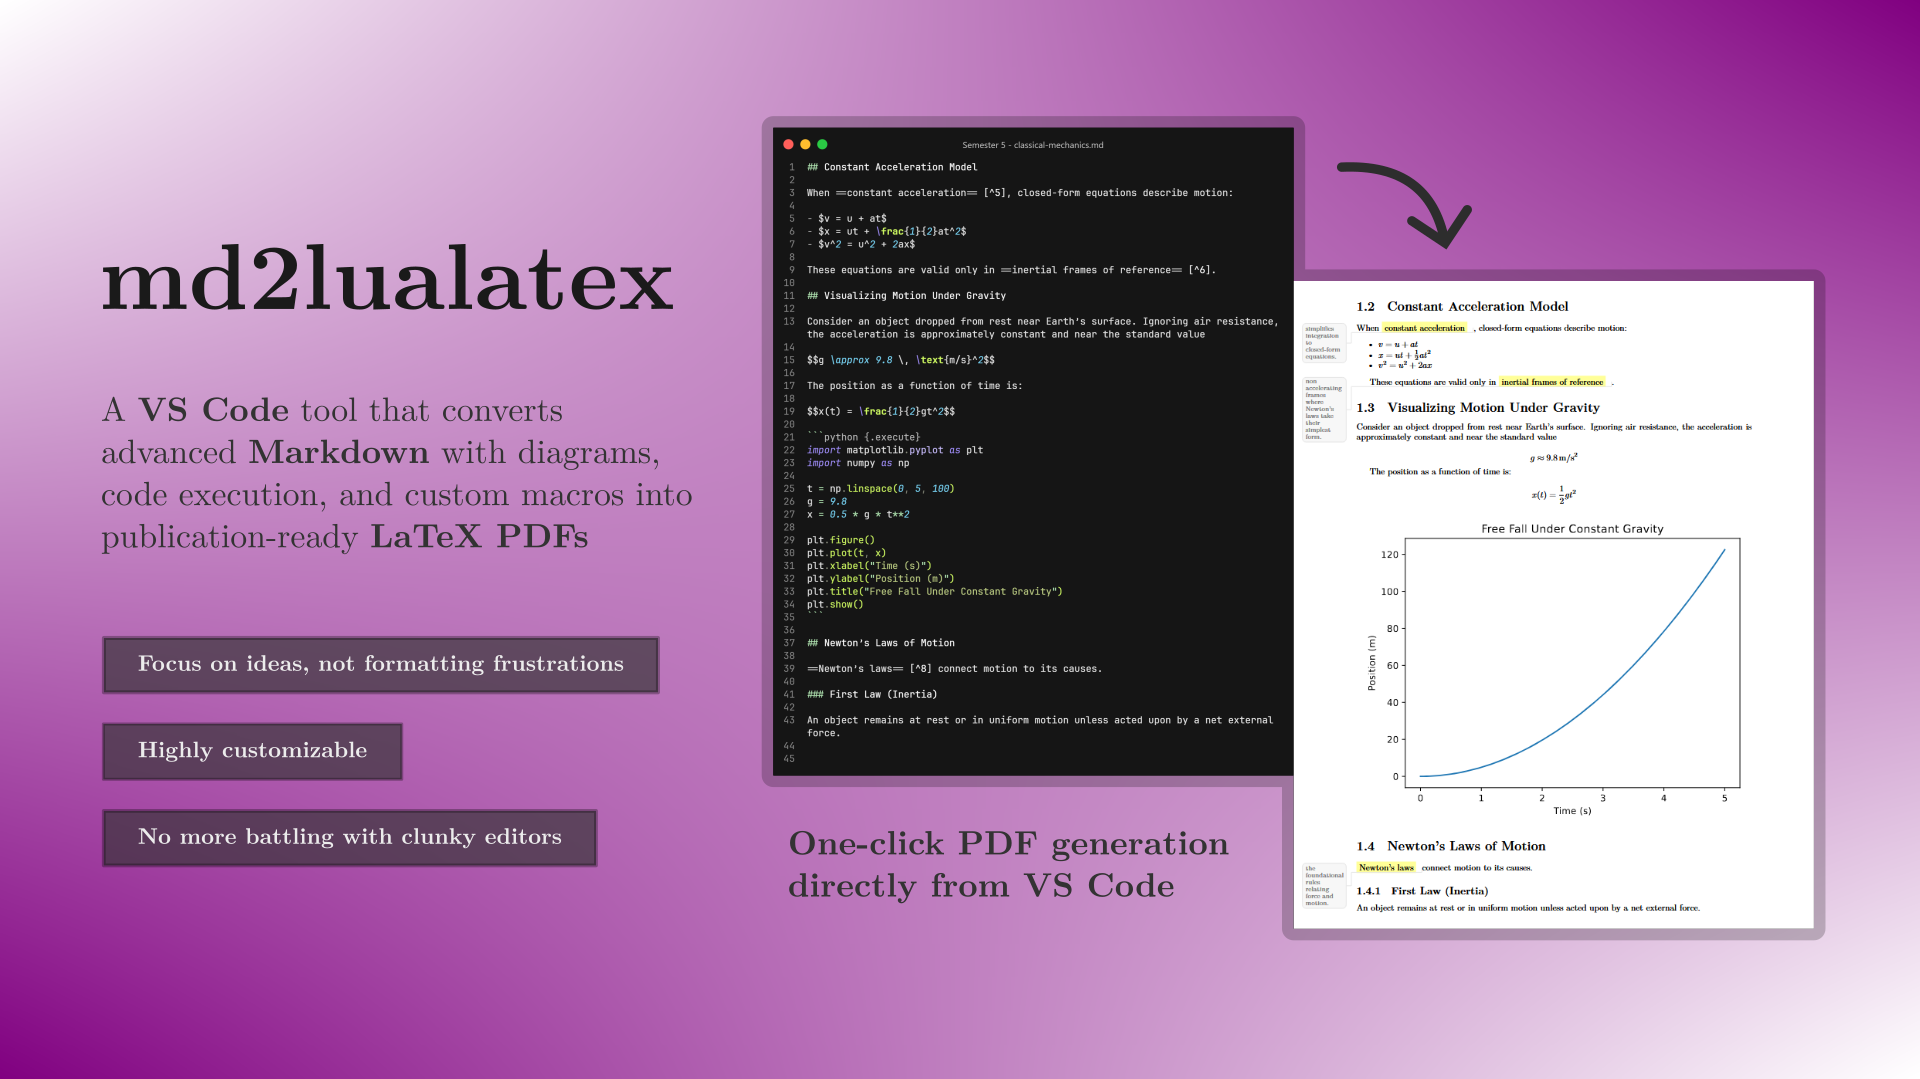
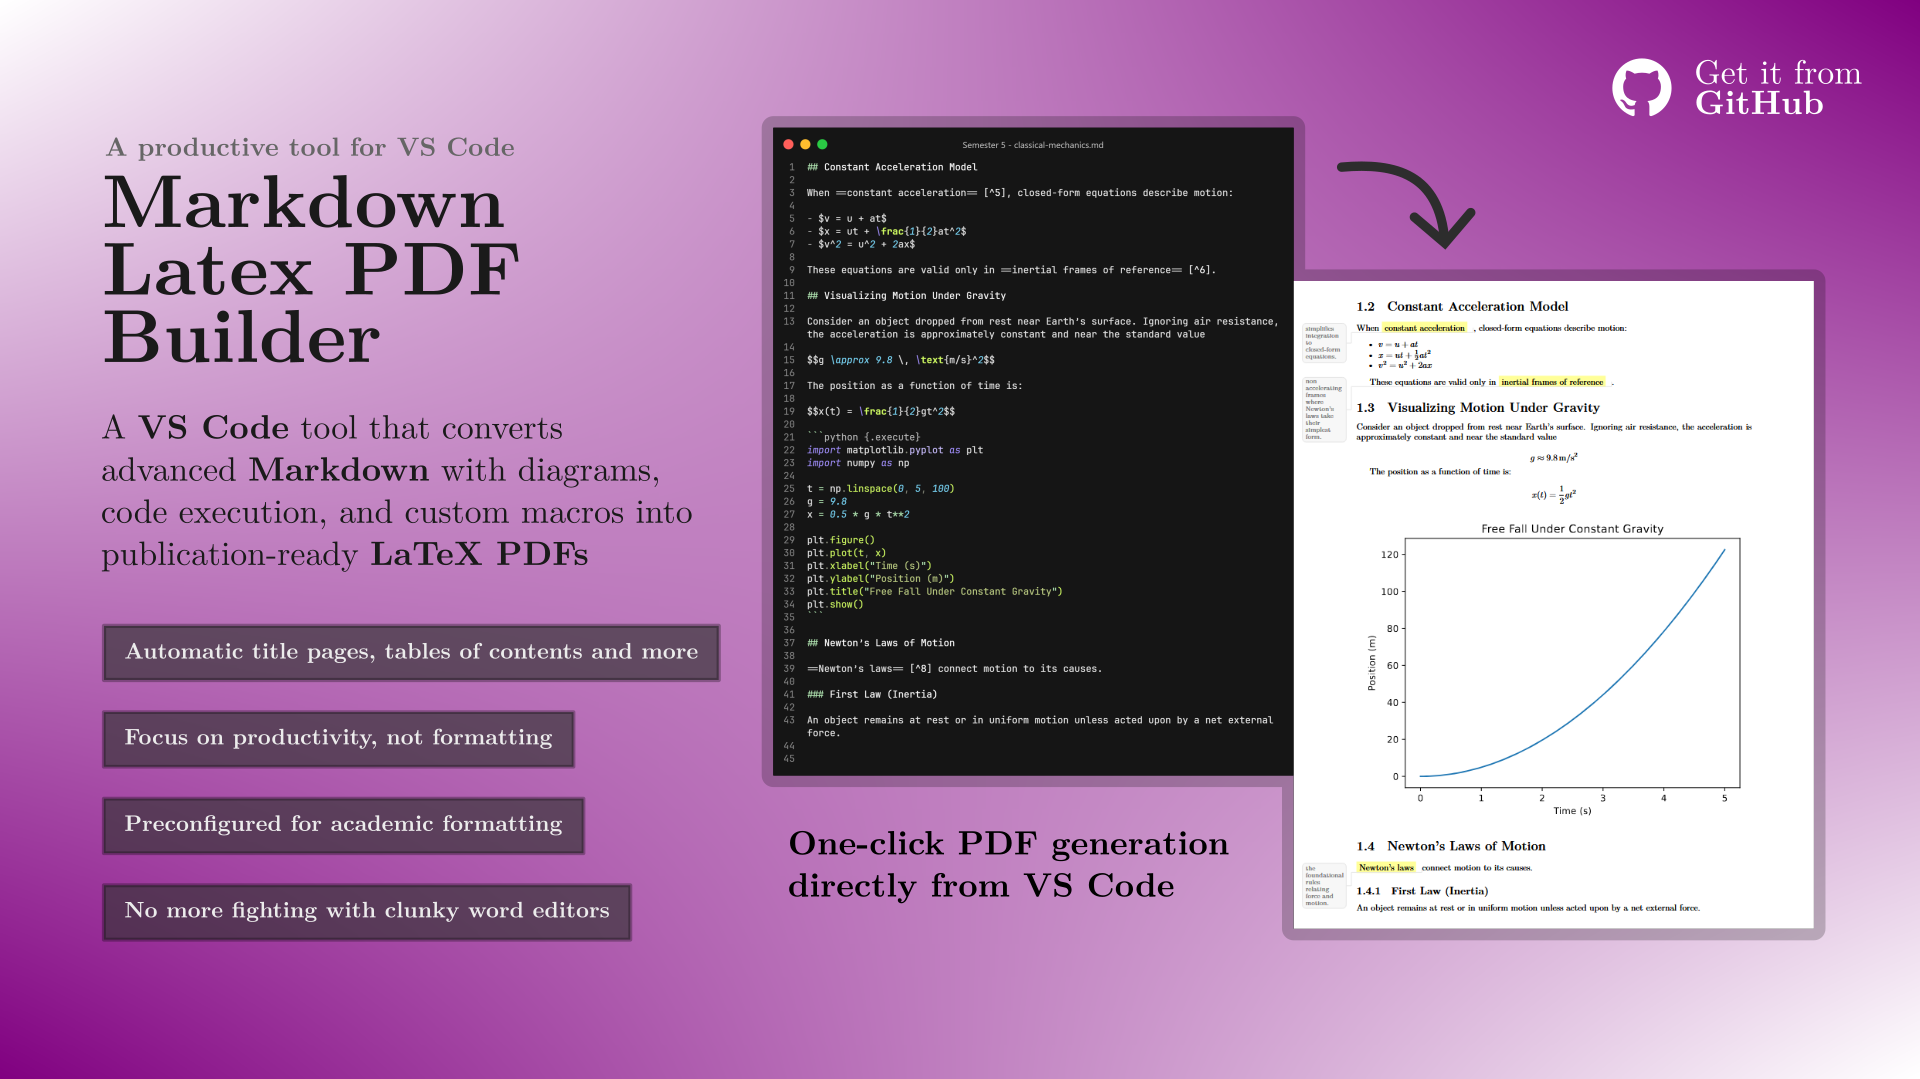
feat: Update README files to reflect new project name and enhance clarity

diff --git a/README.md b/README.md
@@ -1,8 +1,9 @@
 Windows | [Linux](README-LINUX.md)
 
-# md2lualatex
+# markdown-latex-pdf-builder
 
 ![alt text](screenshots/screenshot_1.png)
+
 <!-- ![alt text](screenshots/screenshot_2.png) -->
 
 A vscode tool that converts advanced Markdown with diagrams, code execution, and custom macros into publication-ready LaTeX PDFs.
@@ -13,7 +14,7 @@ A vscode tool that converts advanced Markdown with diagrams, code execution, and
 - [Usage](#usage)
 - [Changing Default Values](#changing-default-values)
 - [Changing the University Logo](#changing-the-university-logo)
-- [Updating md2lualatex](#updating-md2lualatex)
+- [Updating markdown-latex-pdf-builder](#updating-markdown-latex-pdf-builder)
 - [Uninstallation](#uninstallation)
 - [Tested Environments](#tested-environments)
 
@@ -110,15 +111,15 @@ Install the Pygments syntax highlighter for code blocks:
 python -m pip install Pygments
 ```
 
-#### Step 4: Download md2lualatex
+#### Step 4: Download markdown-latex-pdf-builder
 
-Download md2lualatex to your user AppData folder:
+Download markdown-latex-pdf-builder to your user AppData folder:
 
 ```powershell
-wget https://github.com/abdxdev/md2lualatex/archive/refs/heads/main.zip -OutFile "$env:TEMP\main.zip"
-Expand-Archive -Force -Path "$env:TEMP\main.zip" -DestinationPath "$env:APPDATA\md2lualatex"
+wget https://github.com/abdxdev/markdown-latex-pdf-builder/archive/refs/heads/main.zip -OutFile "$env:TEMP\main.zip"
+Expand-Archive -Force -Path "$env:TEMP\main.zip" -DestinationPath "$env:APPDATA\markdown-latex-pdf-builder"
 Remove-Item "$env:TEMP\main.zip"
-Copy-Item "$env:APPDATA\md2lualatex\md2lualatex-main\default.json" "$env:APPDATA\md2lualatex\default.json"
+Copy-Item "$env:APPDATA\markdown-latex-pdf-builder\markdown-latex-pdf-builder-main\default.json" "$env:APPDATA\markdown-latex-pdf-builder\default.json"
 
 ```
 
@@ -140,10 +141,10 @@ python -m pip install numpy matplotlib
 
 #### Step 7: Verify installation
 
-Run this command to test md2lualatex with the comprehensive guide example. If everything is set up correctly, a PDF document should be generated and opened automatically.
+Run this command to test markdown-latex-pdf-builder with the comprehensive guide example. If everything is set up correctly, a PDF document should be generated and opened automatically.
 
 ```powershell
-python "$env:APPDATA\md2lualatex\md2lualatex-main\script.py" "$env:APPDATA\md2lualatex\md2lualatex-main\test\COMPREHENSIVE-GUIDE.md" --show
+python "$env:APPDATA\markdown-latex-pdf-builder\markdown-latex-pdf-builder-main\script.py" "$env:APPDATA\markdown-latex-pdf-builder\markdown-latex-pdf-builder-main\test\COMPREHENSIVE-GUIDE.md" --show
 ```
 
 ## VS Code Setup
@@ -155,10 +156,10 @@ python "$env:APPDATA\md2lualatex\md2lualatex-main\script.py" "$env:APPDATA\md2lu
    ```jsonc
    // ...other settings...,
     "command-runner.commands": {
-        "md2lualatex: Build Document (follow json settings)": "python \"$env:APPDATA\\md2lualatex\\md2lualatex-main\\script.py\" \"${file}\"",
-        "md2lualatex: Build Assignment (add university title page)": "python \"$env:APPDATA\\md2lualatex\\md2lualatex-main\\script.py\" \"${file}\" --titleTemplate 1 --enableContentPage false",
-        "md2lualatex: Build Notes (add title)": "python \"$env:APPDATA\\md2lualatex\\md2lualatex-main\\script.py\" \"${file}\" --titleTemplate 2 --enableContentPage false",
-        "md2lualatex: Build Publication (add contents and title page)": "python \"$env:APPDATA\\md2lualatex\\md2lualatex-main\\script.py\" \"${file}\" --titleTemplate 3 --enableContentPage true"
+        "markdown-latex-pdf-builder: Build Document (follow json settings)": "python \"$env:APPDATA\\markdown-latex-pdf-builder\\markdown-latex-pdf-builder-main\\script.py\" \"${file}\"",
+        "markdown-latex-pdf-builder: Build Assignment (add university title page)": "python \"$env:APPDATA\\markdown-latex-pdf-builder\\markdown-latex-pdf-builder-main\\script.py\" \"${file}\" --titleTemplate 1 --enableContentPage false",
+        "markdown-latex-pdf-builder: Build Notes (add title)": "python \"$env:APPDATA\\markdown-latex-pdf-builder\\markdown-latex-pdf-builder-main\\script.py\" \"${file}\" --titleTemplate 2 --enableContentPage false",
+        "markdown-latex-pdf-builder: Build Publication (add contents and title page)": "python \"$env:APPDATA\\markdown-latex-pdf-builder\\markdown-latex-pdf-builder-main\\script.py\" \"${file}\" --titleTemplate 3 --enableContentPage true"
     }
    ```
 
@@ -168,8 +169,8 @@ python "$env:APPDATA\md2lualatex\md2lualatex-main\script.py" "$env:APPDATA\md2lu
 
 1. Open any folder in VS Code.
 2. Create a new Markdown file (for example, `report.md`).
-3. Add your content. Check out our [comprehensive guide](https://github.com/abdxdev/md2lualatex/blob/main/test/COMPREHENSIVE-GUIDE.pdf) for advanced features and examples.
-4. Press `Ctrl + Shift + R` and select **md2lualatex: Build Document**. (Extension: Command Runner must be installed. Follow prerequisites if you haven't done so.)
+3. Add your content. Check out our [comprehensive guide](https://github.com/abdxdev/markdown-latex-pdf-builder/blob/main/test/COMPREHENSIVE-GUIDE.pdf) for advanced features and examples.
+4. Press `Ctrl + Shift + R` and select **markdown-latex-pdf-builder: Build Document**. (Extension: Command Runner must be installed. Follow prerequisites if you haven't done so.)
 5. After a few moments, the PDF will be generated along with a `.json` metadata file. Edit this file to change document settings like title, university, and date. (To permanently change default values, see the next section.)
 6. Re-run the build command from step 4 to generate the updated PDF.
 
@@ -183,7 +184,7 @@ You can edit the default settings for document generation by modifying the `defa
 Run this command to open it in VS Code:
 
 ```powershell
-code "$env:APPDATA\md2lualatex\default.json"
+code "$env:APPDATA\markdown-latex-pdf-builder\default.json"
 ```
 
 The next time you generate a document, it will use the updated defaults.
@@ -193,21 +194,21 @@ The next time you generate a document, it will use the updated defaults.
 To replace the default logo, open the script directory:
 
 ```powershell
-explorer $env:APPDATA\md2lualatex\md2lualatex-main\
+explorer $env:APPDATA\markdown-latex-pdf-builder\markdown-latex-pdf-builder-main\
 ```
 
 Replace the existing `uni-logo.pdf` file with your logo file (use the same name).
 
-## Updating md2lualatex
+## Updating markdown-latex-pdf-builder
 
-To update md2lualatex, run these commands in PowerShell:
+To update markdown-latex-pdf-builder, run these commands in PowerShell:
 
 #### Step 1: Remove old version and download the latest
 
 ```powershell
-Remove-Item "$env:APPDATA\md2lualatex\md2lualatex-main" -Recurse -Force
-wget https://github.com/abdxdev/md2lualatex/archive/refs/heads/main.zip -OutFile "$env:TEMP\main.zip"
-Expand-Archive -Path "$env:TEMP\main.zip" -DestinationPath "$env:APPDATA\md2lualatex"
+Remove-Item "$env:APPDATA\markdown-latex-pdf-builder\markdown-latex-pdf-builder-main" -Recurse -Force
+wget https://github.com/abdxdev/markdown-latex-pdf-builder/archive/refs/heads/main.zip -OutFile "$env:TEMP\main.zip"
+Expand-Archive -Path "$env:TEMP\main.zip" -DestinationPath "$env:APPDATA\markdown-latex-pdf-builder"
 Remove-Item "$env:TEMP\main.zip"
 
 ```
@@ -230,10 +231,10 @@ Remove-Item "$env:APPDATA\TinyTeX" -Recurse -Force
 > Microsoft Edge may lock certain files related to the uninstallation process if it is running in the background.  
 > To avoid issues, open Task Manager, locate "Microsoft Edge" under the "Processes" tab, and select "End Task" before proceeding.
 
-#### Step 2: Remove md2lualatex
+#### Step 2: Remove markdown-latex-pdf-builder
 
 ```powershell
-Remove-Item "$env:APPDATA\md2lualatex" -Recurse -Force
+Remove-Item "$env:APPDATA\markdown-latex-pdf-builder" -Recurse -Force
 ```
 
 ## Tested Environments

diff --git a/README-LINUX.md b/README-LINUX.md
@@ -1,6 +1,6 @@
 [Windows](README.md) | Linux
 
-# md2lualatex
+# markdown-latex-pdf-builder
 
 A vscode tool that converts advanced Markdown with diagrams, code execution, and custom macros into publication-ready LaTeX PDFs.
 
